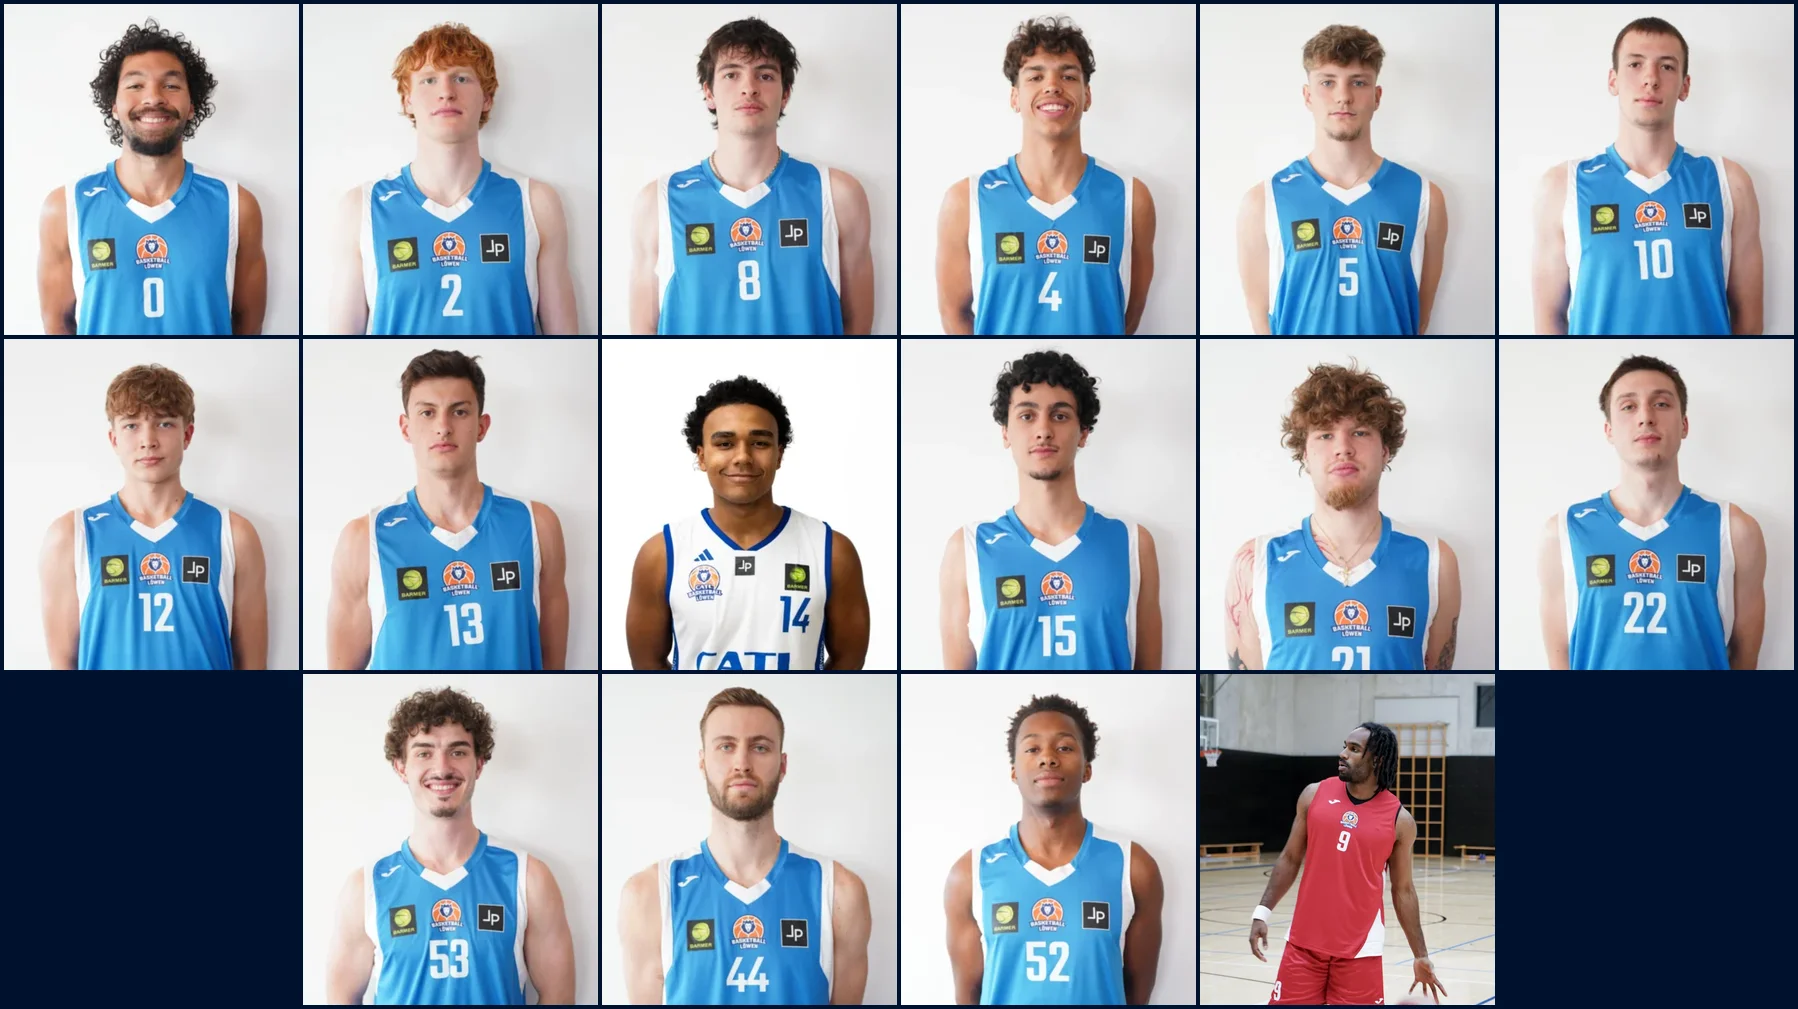
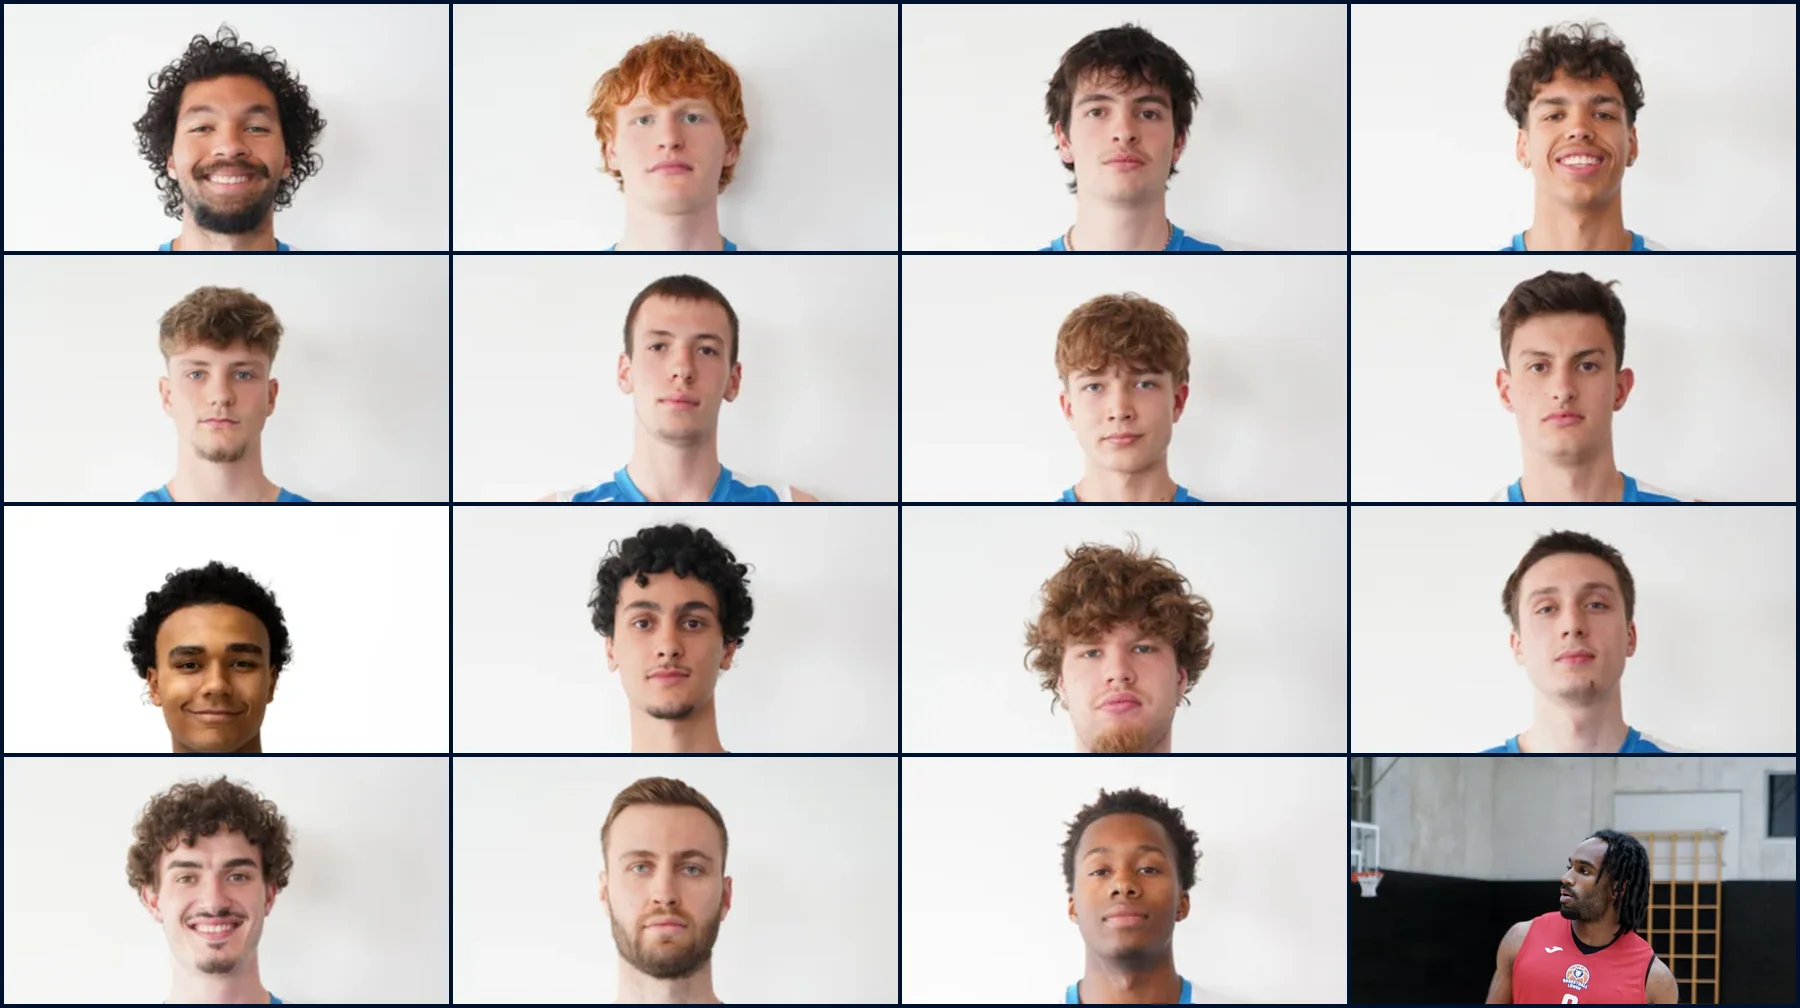
Kader-Collage: vierzeilig (4x4) statt dreizeilig
Gleichmäßiges 4x4-Raster statt 6+6+4 mit zentrierter letzter Zeile --
sieht als durchgängiges Muster deutlich sauberer aus. Bildmaße
(1800x1008) weiterhin so gewählt, dass die Höhe auf saison/profis.html
im Desktop-Layout (1440px) exakt von der Oberkante der Überschrift bis
zur Unterkante der Button-Reihe reicht.

diff --git a/index.html b/index.html
@@ -293,7 +293,7 @@
         <!-- DESKTOP: 2 Bento-Seiten -->
         <div class="news-slider-desktop">
           <div class="news-slider-track" id="news-slider-track-desktop"><!--NEWS:news-slider-track-desktop-->
-        <div class="news-bento"><a class="news-tile news-tile-featured" href="/news/artikel/2026-09-26_profis_vorbericht-dragons-rhoendorf.html"><img src="/assets/img/team-kader-collage.webp" width="1798" height="1009" alt="" onerror="this.onerror=null;this.src='/assets/img/share/og-default.jpg'" /><div class="news-tile-overlay"><h3 class="news-tile-headline">Basketball Löwen reisen zum Saisonauftakt zu den Dragons Rhöndorf</h3><p class="news-tile-teaser">Saisonauftakt heute um 19 Uhr bei den Dragons Rhöndorf, einem der stärksten Gegner der Südstaffel — für Co-Kapitän Samuel Nellessen ein besonderes Spiel.</p><span class="news-tile-link">26.09.2026 · Weiterlesen <i data-lucide="arrow-right" style="width:14px;height:14px"></i></span></div></a><a class="news-tile news-tile-side" href="/news/artikel/2026-09-25_profis_junge-loewen.html"><img src="/assets/img/team-prob.webp" width="1920" height="1280" alt="" onerror="this.onerror=null;this.src='/assets/img/share/og-default.jpg'" /><div class="news-tile-overlay"><h3 class="news-tile-headline">Die jungen Löwen: Jasper Brand, Friedrich Radefeld, Luca Förster, Luke Kiraly und Léonar Fliege</h3><p class="news-tile-teaser">Fünf Eigengewächse aus den Partnervereinen übernehmen mehr Verantwortung im ProB-Kader — Léonar Fliege war im Sommer im erweiterten U20-Nationalkader.</p><span class="news-tile-link">25.09.2026 · Weiterlesen <i data-lucide="arrow-right" style="width:14px;height:14px"></i></span></div></a><a class="news-tile news-tile-small" href="/news/artikel/2026-09-24_profis_neuzugaenge-international.html"><img src="/assets/img/team-prob.webp" width="1920" height="1280" alt="" onerror="this.onerror=null;this.src='/assets/img/share/og-default.jpg'" /><div class="news-tile-overlay"><h3 class="news-tile-headline">Internationales Flair und bewährte Löwen-DNA: Derek Emelifeonwu, Jacob Hadi, Anthony Watkins und Jordan Zimmermann</h3><p class="news-tile-teaser">Zwei internationale Neuzugänge aus Australien und Schweden sowie zwei Rückkehrer mit Löwen-Vergangenheit verstärken den Kader für die neue Saison.</p><span class="news-tile-link">24.09.2026 · Weiterlesen <i data-lucide="arrow-right" style="width:14px;height:14px"></i></span></div></a></div>
+        <div class="news-bento"><a class="news-tile news-tile-featured" href="/news/artikel/2026-09-26_profis_vorbericht-dragons-rhoendorf.html"><img src="/assets/img/team-kader-collage.webp" width="1800" height="1008" alt="" onerror="this.onerror=null;this.src='/assets/img/share/og-default.jpg'" /><div class="news-tile-overlay"><h3 class="news-tile-headline">Basketball Löwen reisen zum Saisonauftakt zu den Dragons Rhöndorf</h3><p class="news-tile-teaser">Saisonauftakt heute um 19 Uhr bei den Dragons Rhöndorf, einem der stärksten Gegner der Südstaffel — für Co-Kapitän Samuel Nellessen ein besonderes Spiel.</p><span class="news-tile-link">26.09.2026 · Weiterlesen <i data-lucide="arrow-right" style="width:14px;height:14px"></i></span></div></a><a class="news-tile news-tile-side" href="/news/artikel/2026-09-25_profis_junge-loewen.html"><img src="/assets/img/team-prob.webp" width="1920" height="1280" alt="" onerror="this.onerror=null;this.src='/assets/img/share/og-default.jpg'" /><div class="news-tile-overlay"><h3 class="news-tile-headline">Die jungen Löwen: Jasper Brand, Friedrich Radefeld, Luca Förster, Luke Kiraly und Léonar Fliege</h3><p class="news-tile-teaser">Fünf Eigengewächse aus den Partnervereinen übernehmen mehr Verantwortung im ProB-Kader — Léonar Fliege war im Sommer im erweiterten U20-Nationalkader.</p><span class="news-tile-link">25.09.2026 · Weiterlesen <i data-lucide="arrow-right" style="width:14px;height:14px"></i></span></div></a><a class="news-tile news-tile-small" href="/news/artikel/2026-09-24_profis_neuzugaenge-international.html"><img src="/assets/img/team-prob.webp" width="1920" height="1280" alt="" onerror="this.onerror=null;this.src='/assets/img/share/og-default.jpg'" /><div class="news-tile-overlay"><h3 class="news-tile-headline">Internationales Flair und bewährte Löwen-DNA: Derek Emelifeonwu, Jacob Hadi, Anthony Watkins und Jordan Zimmermann</h3><p class="news-tile-teaser">Zwei internationale Neuzugänge aus Australien und Schweden sowie zwei Rückkehrer mit Löwen-Vergangenheit verstärken den Kader für die neue Saison.</p><span class="news-tile-link">24.09.2026 · Weiterlesen <i data-lucide="arrow-right" style="width:14px;height:14px"></i></span></div></a></div>
 <!--/NEWS:news-slider-track-desktop--></div>
           <button type="button" class="news-slider-arrow prev" data-news-prev aria-label="Vorherige News" disabled><i data-lucide="chevron-left" class="icon-18"></i></button>
           <button type="button" class="news-slider-arrow next" data-news-next aria-label="Nächste News"><i data-lucide="chevron-right" class="icon-18"></i></button>
@@ -322,7 +322,7 @@
       <div class="grid-3">
         <div class="card hoverable">
           <div class="card-media" style="height:200px;padding:0">
-            <img loading="lazy" src="/assets/img/team-kader-collage.webp" width="1798" height="1009" alt="Profimannschaft Basketball Löwen Erfurt" style="width:100%;height:100%;object-fit:cover;display:block"  />
+            <img loading="lazy" src="/assets/img/team-kader-collage.webp" width="1800" height="1008" alt="Profimannschaft Basketball Löwen Erfurt" style="width:100%;height:100%;object-fit:cover;display:block"  />
           </div>
           <div class="card-body">
             <span class="card-label">Pro B</span>

diff --git a/saison/profis.html b/saison/profis.html
@@ -287,7 +287,7 @@
         </div>
         <div class="kader-photo-wrap" style="display:flex;justify-content:center">
           <button type="button" id="teamfoto-open" class="teamfoto-placeholder is-collage" aria-label="Kader-Collage vergrößern" style="max-width:none;width:100%">
-            <img loading="lazy" src="/assets/img/team-kader-collage.webp" width="1798" height="1009" alt="Kader-Collage aus den 16 Spielerporträts der Basketball Löwen Pro B"  />
+            <img loading="lazy" src="/assets/img/team-kader-collage.webp" width="1800" height="1008" alt="Kader-Collage aus den 16 Spielerporträts der Basketball Löwen Pro B"  />
           </button>
         </div>
       </div>
@@ -438,7 +438,7 @@
   <div class="modal-backdrop" id="teamfoto-modal">
     <div class="modal-box" role="dialog" aria-modal="true" aria-label="Kader-Collage aus den 16 Spielerporträts der Basketball Löwen Pro B" style="max-width:min(90vw,900px);padding:0;overflow:hidden">
       <button type="button" class="modal-close" data-teamfoto-close aria-label="Schließen" style="background:rgba(0,18,45,.55);color:#fff;width:32px;height:32px;border-radius:50%;display:flex;align-items:center;justify-content:center;z-index:1"><i data-lucide="x" class="icon-18"></i></button>
-      <img loading="lazy" src="/assets/img/team-kader-collage.webp" width="1798" height="1009" alt="Kader-Collage aus den 16 Spielerporträts der Basketball Löwen Pro B" style="width:100%;height:auto;display:block"  />
+      <img loading="lazy" src="/assets/img/team-kader-collage.webp" width="1800" height="1008" alt="Kader-Collage aus den 16 Spielerporträts der Basketball Löwen Pro B" style="width:100%;height:auto;display:block"  />
     </div>
   </div>
 </main>
